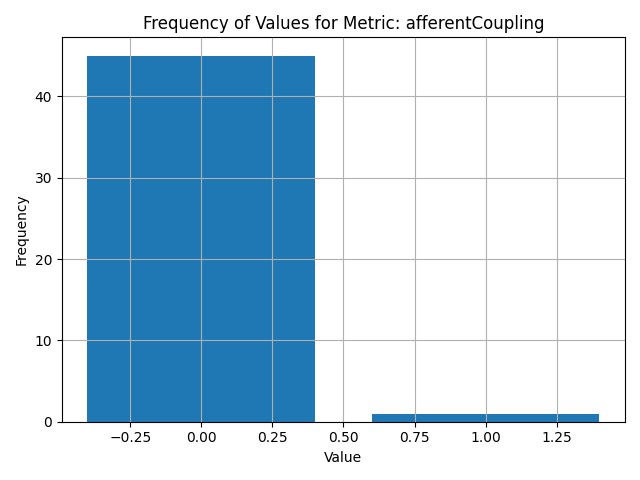
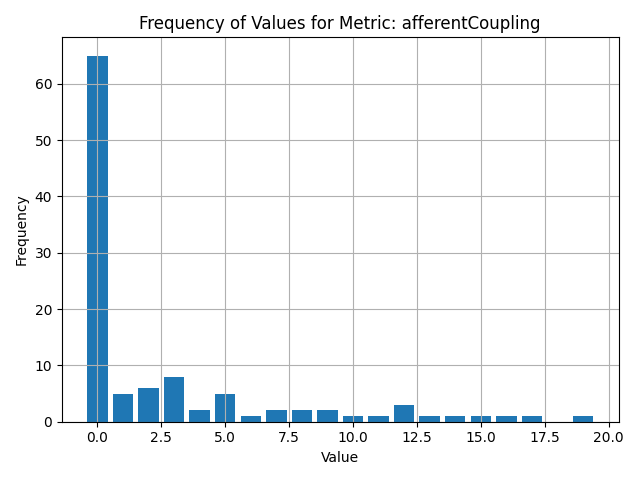
final commit for me

diff --git a/ArchitectureChat/architecturechat/src/extension.ts b/ArchitectureChat/architecturechat/src/extension.ts
@@ -246,7 +246,7 @@ class ChatViewProvider implements vscode.WebviewViewProvider {
 
       //todo the thing with inheritance
     }
-    this._countFilesSent++;
+    //this._countFilesSent++;
 
     const response = await fetch('http://localhost:5000/api/chat', {
       method: 'POST',

diff --git a/visualisations-for-data/main.py b/visualisations-for-data/main.py
@@ -59,12 +59,11 @@ def plot_metrics(metrics):
         print(f"Saved plot for metric '{metric_name}' as '{metric_name}_plot.png'")
 
 if __name__ == '__main__':
-    folder_to_search = input("Enter the directory to search: ").strip()
 
-    if os.path.isdir(folder_to_search):
-        find_and_parse(folder_to_search)
-    else:
-        print("Invalid directory. Try again.")
+    find_and_parse('/home/paaull/aiprojectvsextension/scripts-metrics/results/claudiu')
+    find_and_parse('/home/paaull/aiprojectvsextension/scripts-metrics/results/eca')
+    find_and_parse('/home/paaull/aiprojectvsextension/scripts-metrics/results/georgi')
+
 
     print("\n--- Summary ---")
     print(f"Number of parsed files: {number_files}")
